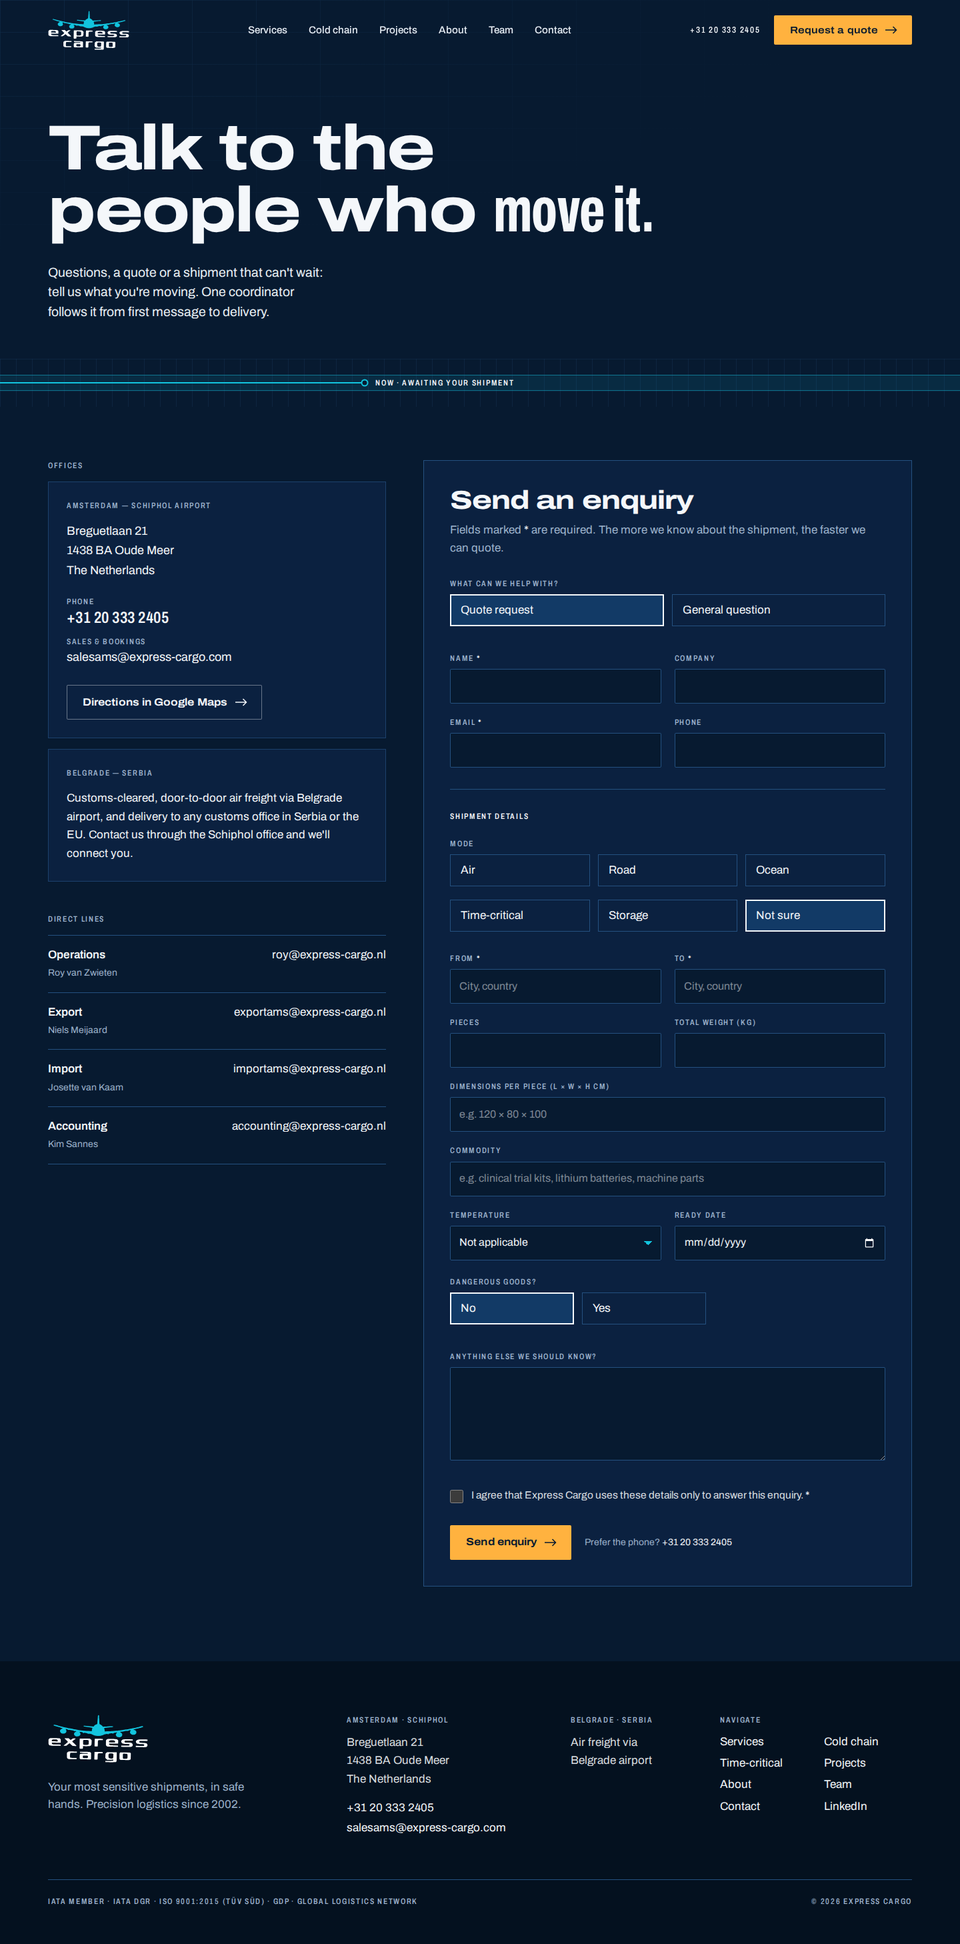
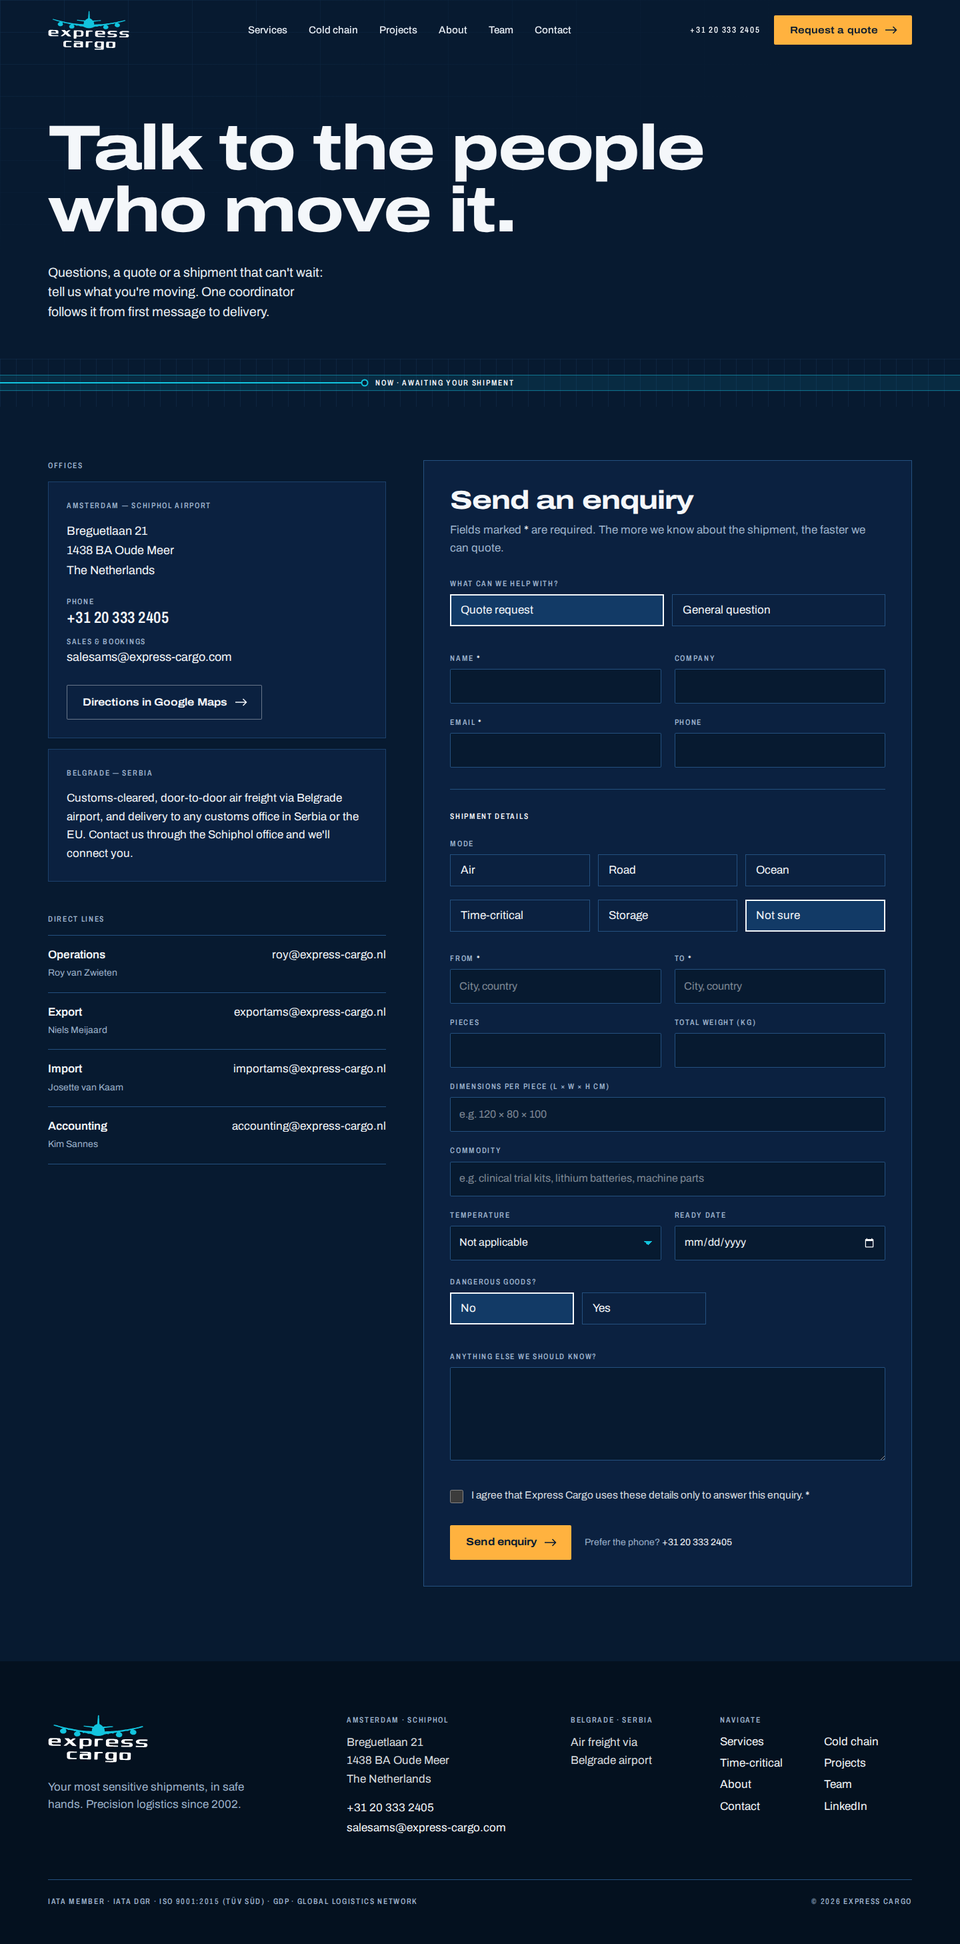
Second critique round: one-voice headlines, legible printout, solid custody bars
- Width payoff kept only on 'No limits.'; amber only on 'cannot wait.'
- Printout events as numbered ticks + legend (no collisions, mobile too)
- Custody bars: solid amber outline, paper text, solid progress rule
- Ledger: sparklines and side stripe removed; active route in paper
- Spec rows folded into prose except the certificate record
- Stronger duotone on journey photos and cold store
- Motion evidence captures for the review

Claude-Session: https://claude.ai/code/session_014mNkdPbsW9kYkWZid9BWB5

Changed region(s): [[0.0312, 0.0624, 0.75, 0.1249]]

diff --git a/index.html b/index.html
@@ -113,7 +113,7 @@
       <section id="services" class="chapter" data-chapter data-event="Booked · AMS" data-stage="Booked" data-loc="AMS · Schiphol" data-time="05:02">
         <div class="wrap">
           <div class="grid gap-10 lg:grid-cols-12">
-            <h2 class="display display-l lg:col-span-6" data-split>One partner, <span class="hl">every mode.</span></h2>
+            <h2 class="display display-l lg:col-span-6" data-split>One partner, every mode.</h2>
             <p class="lede self-end lg:col-span-5 lg:col-start-8">
               We have supplied the entire package of logistics solutions since 2002. A wide network of agents reaches even the most remote destinations, and one coordinator stays with your shipment from pickup to delivery.
             </p>
@@ -170,7 +170,7 @@
       <section id="air" class="chapter bg-ink-800" data-chapter data-event="Handover · Airline" data-stage="Air · Customs" data-loc="AMS → World" data-time="06:40">
         <div class="wrap">
           <div class="grid gap-10 lg:grid-cols-12">
-            <h2 class="display display-l lg:col-span-7" data-split>The fastest mode, <span class="hl">handled completely.</span></h2>
+            <h2 class="display display-l lg:col-span-7" data-split>The fastest mode, handled completely.</h2>
             <p class="prose-ec self-end lg:col-span-5">
               Within a few days your shipment can be on the other side of the globe. Express Cargo is registered with IATA and IATA DGR certified. We collect, clear customs, keep every document in perfect order and deliver to the door. Speed, communication and service are our top priorities.
             </p>
@@ -188,12 +188,7 @@
             <li class="step"><span class="readout-l text-3xl text-muted">04</span><p class="mt-3 text-lg font-medium">Door-to-door delivery</p></li>
           </ol>
 
-          <dl class="spec mt-14 grid md:grid-cols-2">
-            <div><dt>Hazardous</dt><dd>Dangerous goods and lithium batteries</dd></div>
-            <div><dt>Life science</dt><dd>Biological and pharmaceutical shipments</dd></div>
-            <div><dt>Climate</dt><dd>Temperature-controlled shipments</dd></div>
-            <div><dt>Paperwork</dt><dd>Customs documents, formalities and bonded warehousing</dd></div>
-          </dl>
+          <p class="prose-ec mt-14 max-w-[68ch] text-lg">Among other things we handle <span class="text-paper">dangerous goods and lithium batteries</span>, <span class="text-paper">biological and pharmaceutical shipments</span>, <span class="text-paper">temperature-controlled freight</span>, customs documents and formalities, and bonded warehousing.</p>
         </div>
       </section>
 
@@ -213,14 +208,7 @@
               <p class="prose-ec mt-5">
                 National and international road transport across Europe and beyond, from 1 to 10,000 kg. One pallet or two hundred, valuable goods with a security guard and a tracking link, or oversize air freight relayed to regional hubs: we arrange it safely from A to B, and deliver to any customs office in Serbia or the EU.
               </p>
-              <dl class="spec mt-8 grid">
-                <div><dt>Dedicated</dt><dd>Exclusive vehicle, guarded on request</dd></div>
-                <div><dt>Secured</dt><dd>TAPA TSR1 transport</dd></div>
-                <div><dt>Specialist</dt><dd>Art and hanging-fashion transport</dd></div>
-                <div><dt>Shared</dt><dd>Groupage across Europe</dd></div>
-                <div><dt>Medical</dt><dd>Sample shipments by road</dd></div>
-                <div><dt>Customs</dt><dd>Any customs office in Serbia or the EU</dd></div>
-              </dl>
+              <p class="prose-ec mt-5">Our offer includes dedicated transport, TAPA TSR1 secured transport, art and hanging-fashion transport, groupage across Europe and medical sample shipments.</p>
             </div>
             <div class="lg:col-span-5 lg:col-start-8">
               <figure class="plate duo aspect-[4/3]" data-parallax>
@@ -239,7 +227,7 @@
       <section id="time-critical" class="relative bg-ink-950" data-chapter data-event="Priority · Next flight" data-stage="NFO · OBC" data-loc="AMS ✈ Next flight" data-time="T+00:47" data-trace="fast">
         <div class="wrap flex min-h-[100svh] flex-col justify-center py-[clamp(88px,12vh,140px)]" data-tc-inner>
           <div class="grid gap-10 lg:grid-cols-12">
-            <h2 class="display display-l lg:col-span-7" data-split>When it absolutely <span class="hl text-amber">cannot&nbsp;wait.</span></h2>
+            <h2 class="display display-l lg:col-span-7" data-split>When it absolutely <span class="text-amber">cannot&nbsp;wait.</span></h2>
             <p class="lede self-end lg:col-span-5">Three ways to keep custody unbroken, chosen by what your shipment and your deadline demand.</p>
           </div>
 
@@ -287,7 +275,7 @@
       <section id="specialist" class="chapter" data-chapter data-event="Inspection · DGR" data-stage="Specimen · DG" data-loc="IATA DGR" data-time="13:30">
         <div class="wrap grid gap-14 lg:grid-cols-12">
           <div class="lg:col-span-5">
-            <h2 class="display display-l" data-split>Biological samples &amp; <span class="hl">dangerous goods.</span></h2>
+            <h2 class="display display-l" data-split>Biological samples &amp; dangerous goods.</h2>
             <p class="prose-ec mt-8">
               Our specialisation is the shipment others decline: drugs, medical specimens, equipment for clinical trials and sample shipments on dry ice. Chemicals, batteries and flammable materials need correct documentation, packaging and labelling under IATA and ICAO rules, and a team trained to do it every time.
             </p>
@@ -297,12 +285,7 @@
               <ec-img name="lab-tubes" alt="Rack of blood sample tubes in a laboratory" sizes="(min-width: 1024px) 45vw, 100vw" class="h-full w-full" />
             </figure>
           </div>
-          <dl class="spec grid md:grid-cols-2 lg:col-span-12">
-            <div><dt>Network</dt><dd>Worldwide specimen transport via our partner-agent network</dd></div>
-            <div><dt>Clinical</dt><dd>Clinical drug substance, IMP, drug product and ancillary supplies</dd></div>
-            <div><dt>Monitored</dt><dd>Temperature-controlled vehicles, monitored live by TT4 data loggers</dd></div>
-            <div><dt>Compliance</dt><dd>Regulatory and foreign-trade consulting, full import-export documentation</dd></div>
-          </dl>
+          <p class="prose-ec text-lg lg:col-span-10">We move specimens worldwide through our partner-agent network, along with clinical drug substance, IMP, drug product and ancillary supplies. Our temperature-controlled vehicles are monitored live by TT4 data loggers, and we advise on regulation and foreign trade, with full import-export documentation.</p>
         </div>
       </section>
 
@@ -311,7 +294,7 @@
         <div class="ice-ground" data-ice aria-hidden="true"></div>
         <div class="wrap relative">
           <div class="grid gap-10 lg:grid-cols-12">
-            <h2 class="display display-l lg:col-span-7" data-split>Three climates, <span class="hl">one bonded store.</span></h2>
+            <h2 class="display display-l lg:col-span-7" data-split>Three climates, one bonded store.</h2>
             <p class="self-end text-slate lg:col-span-5">
               Storage that holds its range around the clock: twin-screw double cooling, PLC automatic temperature control, humidity control and 24/7 CCTV.
             </p>
@@ -338,7 +321,7 @@
             <p class="readout mt-3 text-slate">Illustrative record · setpoints as specified</p>
           </figure>
 
-          <figure class="plate cool mt-14 aspect-[16/9] md:aspect-[21/9]" data-parallax>
+          <figure class="plate duo mt-14 aspect-[16/9] md:aspect-[21/9]" data-parallax>
             <ec-img name="cold-store" alt="Inside a temperature-controlled warehouse with racked pallets" sizes="(min-width: 768px) 80vw, 100vw" class="h-full w-full" />
           </figure>
         </div>
@@ -348,13 +331,13 @@
       <section id="projects" class="chapter graticule-quiet" data-chapter data-event="In transit · Worldwide" data-stage="Delivered" data-loc="Worldwide" data-time="D+3">
         <div class="wrap">
           <div class="grid gap-10 lg:grid-cols-12">
-            <h2 class="display display-l lg:col-span-7" data-split>Challenges find us. <span class="hl">We deliver them.</span></h2>
+            <h2 class="display display-l lg:col-span-7" data-split>Challenges find us. We deliver them.</h2>
             <p class="lede self-end lg:col-span-5">A few of the shipments we're proud of, from oversize trucks to a hospital in rural Kenya.</p>
           </div>
 
           <div class="mt-16 grid gap-10 lg:grid-cols-12" data-journeys>
             <div class="lg:col-span-5">
-              <div class="journey-frame plate cool aspect-[4/5] lg:sticky lg:top-28" id="journey-photo">
+              <div class="journey-frame plate duo aspect-[4/5] lg:sticky lg:top-28" id="journey-photo">
                 <div class="journey-shot is-active" data-shot="brunei"><ec-img name="project-trucks-brunei" alt="Truck with a yellow vacuum tank prepared for shipment" sizes="(min-width: 1024px) 38vw, 100vw" class="h-full w-full" /></div>
                 <div class="journey-shot" data-shot="australia"><ec-img name="project-envirotainer" alt="Envirotainer active temperature-controlled container" sizes="(min-width: 1024px) 38vw, 100vw" class="h-full w-full" /></div>
                 <div class="journey-shot" data-shot="kenya"><ec-img name="project-kenya" alt="Medical equipment delivered at Madiany Sub County Hospital, Kenya" sizes="(min-width: 1024px) 38vw, 100vw" class="h-full w-full object-top" /></div>
@@ -365,27 +348,27 @@
             </div>
             <ol class="ledger lg:col-span-7" data-ledger>
               <li><button type="button" class="ledger-row is-active" aria-pressed="true" aria-controls="journey-photo" data-show="brunei" data-route="NL → Brunei">
-                <span class="readout route">NL → Brunei</span><span class="readout mode">Sea · Road</span><svg class="mini" viewBox="0 0 120 24" preserveAspectRatio="none" aria-hidden="true"><path /></svg>
+                <span class="readout route">NL → Brunei</span><span class="readout mode">Sea · Road</span>
                 <span class="title">Two trucks with high-value vacuum tanks</span>
                 <span class="desc">Loaded by low-loader at the supplier, sealed and packed in Rotterdam, shipped on two 40' High Cube flatracks with our partners Supermaritime Forwarding and Maple Group.</span>
               </button></li>
               <li><button type="button" class="ledger-row" aria-pressed="false" aria-controls="journey-photo" data-show="australia" data-route="AMS → Australia">
-                <span class="readout route">AMS → Australia</span><span class="readout mode">Air · Active cold</span><svg class="mini" viewBox="0 0 120 24" preserveAspectRatio="none" aria-hidden="true"><path /></svg>
+                <span class="readout route">AMS → Australia</span><span class="readout mode">Air · Active cold</span>
                 <span class="title">Two Envirotainers of pharmaceuticals</span>
                 <span class="desc">Active containers for pharma and biotech, holding a constant controlled temperature all the way to Australia.</span>
               </button></li>
               <li><button type="button" class="ledger-row" aria-pressed="false" aria-controls="journey-photo" data-show="kenya" data-route="AMS → South Uyoma, Kenya">
-                <span class="readout route">AMS → South Uyoma, Kenya</span><span class="readout mode">Air</span><svg class="mini" viewBox="0 0 120 24" preserveAspectRatio="none" aria-hidden="true"><path /></svg>
+                <span class="readout route">AMS → South Uyoma, Kenya</span><span class="readout mode">Air</span>
                 <span class="title">Medical equipment for a remote hospital</span>
                 <span class="desc">Delivered safely to Madiany Sub County Hospital, a Ministry of Health primary care hospital.</span>
               </button></li>
               <li><button type="button" class="ledger-row" aria-pressed="false" aria-controls="journey-photo" data-show="mexico" data-route="AMS → Mexico">
-                <span class="readout route">AMS → Mexico</span><span class="readout mode">Air · Tailor-made</span><svg class="mini" viewBox="0 0 120 24" preserveAspectRatio="none" aria-hidden="true"><path /></svg>
+                <span class="readout route">AMS → Mexico</span><span class="readout mode">Air · Tailor-made</span>
                 <span class="title">A crate almost three metres long</span>
                 <span class="desc">Two and a half metres high, in tailor-made packaging. For international transport a wooden crate is the recommended choice.</span>
               </button></li>
               <li><button type="button" class="ledger-row" aria-pressed="false" aria-controls="journey-photo" data-show="perth" data-route="NL → Perth, Australia">
-                <span class="readout route">NL → Perth, Australia</span><span class="readout mode">Air</span><svg class="mini" viewBox="0 0 120 24" preserveAspectRatio="none" aria-hidden="true"><path /></svg>
+                <span class="readout route">NL → Perth, Australia</span><span class="readout mode">Air</span>
                 <span class="title">Construction materials above 3,000 kg</span>
                 <span class="desc">Collected, sealed and on their way to Perth.</span>
               </button></li>
@@ -401,7 +384,7 @@
       <section id="about" class="chapter bg-ink-800 graticule-quiet" data-chapter data-event="Checkpoint · Assured" data-stage="Assured" data-loc="AMS · BEG" data-time="Since 2002">
         <div class="wrap grid gap-14 lg:grid-cols-12">
           <div class="lg:col-span-6">
-            <h2 class="display display-l" data-split>A partner you can <span class="hl">rely on.</span></h2>
+            <h2 class="display display-l" data-split>A partner you can rely on.</h2>
             <p class="prose-ec mt-8">
               Express Cargo was founded in 2002 to provide fast and safe cargo transport to any destination in the world. As part of the Express-Cargo Group, with offices at Amsterdam Schiphol, Europe's key cargo airport, and in Serbia, we offer international and domestic freight, forwarding, customs brokerage and warehousing.
             </p>
@@ -427,7 +410,7 @@
       <section id="team" class="chapter" data-chapter data-event="Contact · Coordinator" data-stage="Your contact" data-loc="AMS · Schiphol" data-time="Mon–Fri">
         <div class="wrap">
           <div class="grid gap-10 lg:grid-cols-12">
-            <h2 class="display display-l lg:col-span-7" data-split>Dedication. Expertise. <span class="hl">Passion.</span></h2>
+            <h2 class="display display-l lg:col-span-7" data-split>Dedication. Expertise. Passion.</h2>
             <p class="lede self-end lg:col-span-5">An experienced, driven team. No challenge is too big: we think along with you and guarantee the best service.</p>
           </div>
 
@@ -510,6 +493,7 @@
               </svg>
               <div class="printout-events readout" aria-hidden="true" data-printout-events></div>
             </div>
+            <ol class="printout-legend readout" aria-hidden="true" data-printout-legend></ol>
             <dl class="printout-stats readout">
               <div><dt>Status</dt><dd class="text-cyan">Delivered · within range</dd></div>
               <div><dt>Time in band</dt><dd>100%</dd></div>

diff --git a/src/styles/main.css b/src/styles/main.css
@@ -897,34 +897,38 @@ body.no-rail {
   .custody-bar .seg {
     position: relative;
     flex: 0 0 calc(var(--w) - 2px);
-    box-shadow: inset 0 0 0 1px color-mix(in oklab, var(--color-amber) 45%, transparent);
+    box-shadow: inset 0 0 0 1px var(--color-amber);
     overflow: hidden;
   }
-  .custody-bar .seg::before {
+  .custody-bar .seg::after {
+    /* custody progress: a solid amber rule along the bottom edge */
     content: "";
     position: absolute;
-    inset: 0;
-    background: color-mix(in oklab, var(--color-amber) 22%, transparent);
+    left: 0;
+    right: 0;
+    bottom: 0;
+    height: 4px;
+    background: var(--color-amber);
     transform-origin: left;
     transform: scaleX(var(--fill, 1));
-  }
-  .custody-bar .seg-one::before {
-    background: color-mix(in oklab, var(--color-amber) 30%, transparent);
   }
   .custody-bar b {
     position: relative;
     display: flex;
     height: 100%;
     align-items: center;
-    padding: 0 12px;
-    font-stretch: 75%;
-    font-weight: 560;
-    text-transform: uppercase;
-    letter-spacing: 0.12em;
-    font-size: 0.7rem;
+    padding: 0 12px 4px;
+    font-stretch: 85%;
+    font-weight: 600;
+    letter-spacing: 0.02em;
+    font-size: 0.86rem;
+    color: var(--color-paper);
     white-space: nowrap;
     overflow: hidden;
     text-overflow: ellipsis;
+  }
+  .custody-bar {
+    height: 48px;
   }
 
   /* the ice chapter: a frost ground that sweeps in from the rail */
@@ -1024,24 +1028,9 @@ body.no-rail {
     cursor: pointer;
     position: relative;
   }
-  .ledger-row .route {
-    color: var(--color-paper);
-  }
   .ledger-row .mode {
     color: var(--color-muted);
     text-align: right;
-  }
-  .ledger-row .mini {
-    grid-column: 1 / -1;
-    width: 100%;
-    height: 22px;
-    margin: 4px 0;
-  }
-  .ledger-row .mini path {
-    fill: none;
-    stroke: var(--color-muted);
-    stroke-width: 1.25;
-    vector-effect: non-scaling-stroke;
   }
   .ledger-row .title {
     grid-column: 1 / -1;
@@ -1054,23 +1043,15 @@ body.no-rail {
     color: color-mix(in oklab, var(--color-paper) 78%, var(--color-muted));
     max-width: 60ch;
   }
-  .ledger-row::before {
-    content: "";
-    position: absolute;
-    left: -16px;
-    top: 22px;
-    bottom: 24px;
-    width: 2px;
-    background: var(--color-cyan);
-    transform: scaleY(0);
-    transform-origin: top;
-    transition: transform 0.3s cubic-bezier(0.16, 1, 0.3, 1);
+  .ledger-row .route {
+    color: var(--color-muted);
+    transition: color 0.2s;
   }
-  .ledger-row.is-active::before {
-    transform: scaleY(1);
-  }
-  .ledger-row.is-active .mini path {
-    stroke: var(--color-cyan);
+  .ledger-row.is-active .route {
+    color: var(--color-paper);
+    text-decoration: underline;
+    text-decoration-thickness: 1px;
+    text-underline-offset: 5px;
   }
   .ledger-row:hover .title {
     text-decoration: underline;
@@ -1152,9 +1133,20 @@ body.no-rail {
     bottom: 0;
     border-left: 1px dashed color-mix(in oklab, var(--color-muted) 50%, transparent);
     padding-left: 4px;
+    color: var(--color-paper);
+    font-size: 0.68rem;
+  }
+  .printout-legend {
+    display: flex;
+    flex-wrap: wrap;
+    gap: 6px 22px;
+    margin-top: 12px;
     color: var(--color-muted);
-    font-size: 0.6rem;
-    white-space: nowrap;
+  }
+  .printout-legend b {
+    margin-right: 8px;
+    color: var(--color-paper);
+    font-weight: 600;
   }
   .printout-stats {
     display: grid;

diff --git a/src/lib/motion.ts b/src/lib/motion.ts
@@ -250,17 +250,7 @@ export function initJourneys(): void {
   const rows = gsap.utils.toArray<HTMLButtonElement>('[data-ledger] .ledger-row');
   const shots = gsap.utils.toArray<HTMLElement>('[data-shot]');
   const caption = document.querySelector<HTMLElement>('[data-shot-caption]');
-  rows.forEach((row, i) => {
-    // a mini in-band trace for each journey, flat and quiet
-    const path = row.querySelector<SVGPathElement>('.mini path');
-    if (path) {
-      let d = '';
-      for (let x = 0; x <= 120; x += 3) {
-        const v = 12 + 4 * (0.6 * Math.sin(x / 9 + i * 1.7) + 0.4 * Math.sin(x / 3.7 + i));
-        d += `${x ? 'L' : 'M'}${x} ${v.toFixed(1)}`;
-      }
-      path.setAttribute('d', d);
-    }
+  rows.forEach((row) => {
     const activate = () => {
       rows.forEach((r) => {
         const on = r === row;
@@ -282,6 +272,7 @@ export function initPrintout(trace: TraceApi | null): void {
   const path = document.querySelector<SVGPathElement>('[data-printout-path]');
   const evs = document.querySelector<HTMLElement>('[data-printout-events]');
   const peakEl = document.querySelector<HTMLElement>('[data-printout-peak]');
+  const legend = document.querySelector<HTMLElement>('[data-printout-legend]');
   if (!fig || !path || !evs || !trace) return;
 
   const draw = () => {
@@ -296,11 +287,18 @@ export function initPrintout(trace: TraceApi | null): void {
     });
     path.setAttribute('d', d);
     evs.replaceChildren(
-      ...events.map((e) => {
-        const s = document.createElement('span');
-        s.style.left = `${(e.f * 100).toFixed(2)}%`;
-        s.textContent = window.innerWidth >= 1024 ? e.label : '';
-        return s;
+      ...events.map((e, i) => {
+        const tick = document.createElement('span');
+        tick.style.left = `${(Math.min(e.f, 0.97) * 100).toFixed(2)}%`;
+        tick.textContent = String(i + 1);
+        return tick;
+      }),
+    );
+    legend?.replaceChildren(
+      ...events.map((e, i) => {
+        const li = document.createElement('li');
+        li.innerHTML = `<b>${i + 1}</b>${e.label}`;
+        return li;
       }),
     );
     if (peakEl) peakEl.textContent = fmtTemp(Math.max(...temps));

diff --git a/contact/index.html b/contact/index.html
@@ -39,7 +39,7 @@
         <div class="graticule absolute inset-0 opacity-40"></div>
         <div class="absolute inset-0 bg-[radial-gradient(120%_80%_at_0%_0%,rgba(7,26,48,0)_0%,#071a30_70%)]"></div>
         <div class="wrap relative">
-                    <h1 class="display display-xl max-w-[14ch]" data-split>Talk to the people who <span class="hl">move&nbsp;it.</span></h1>
+                    <h1 class="display display-xl max-w-[14ch]" data-split>Talk to the people who move&nbsp;it.</h1>
           <p class="lede mt-8" data-reveal="fade">Questions, a quote or a shipment that can't wait: tell us what you're moving. One coordinator follows it from first message to delivery.</p>
         </div>
         <!-- a logger waiting for its first reading -->
